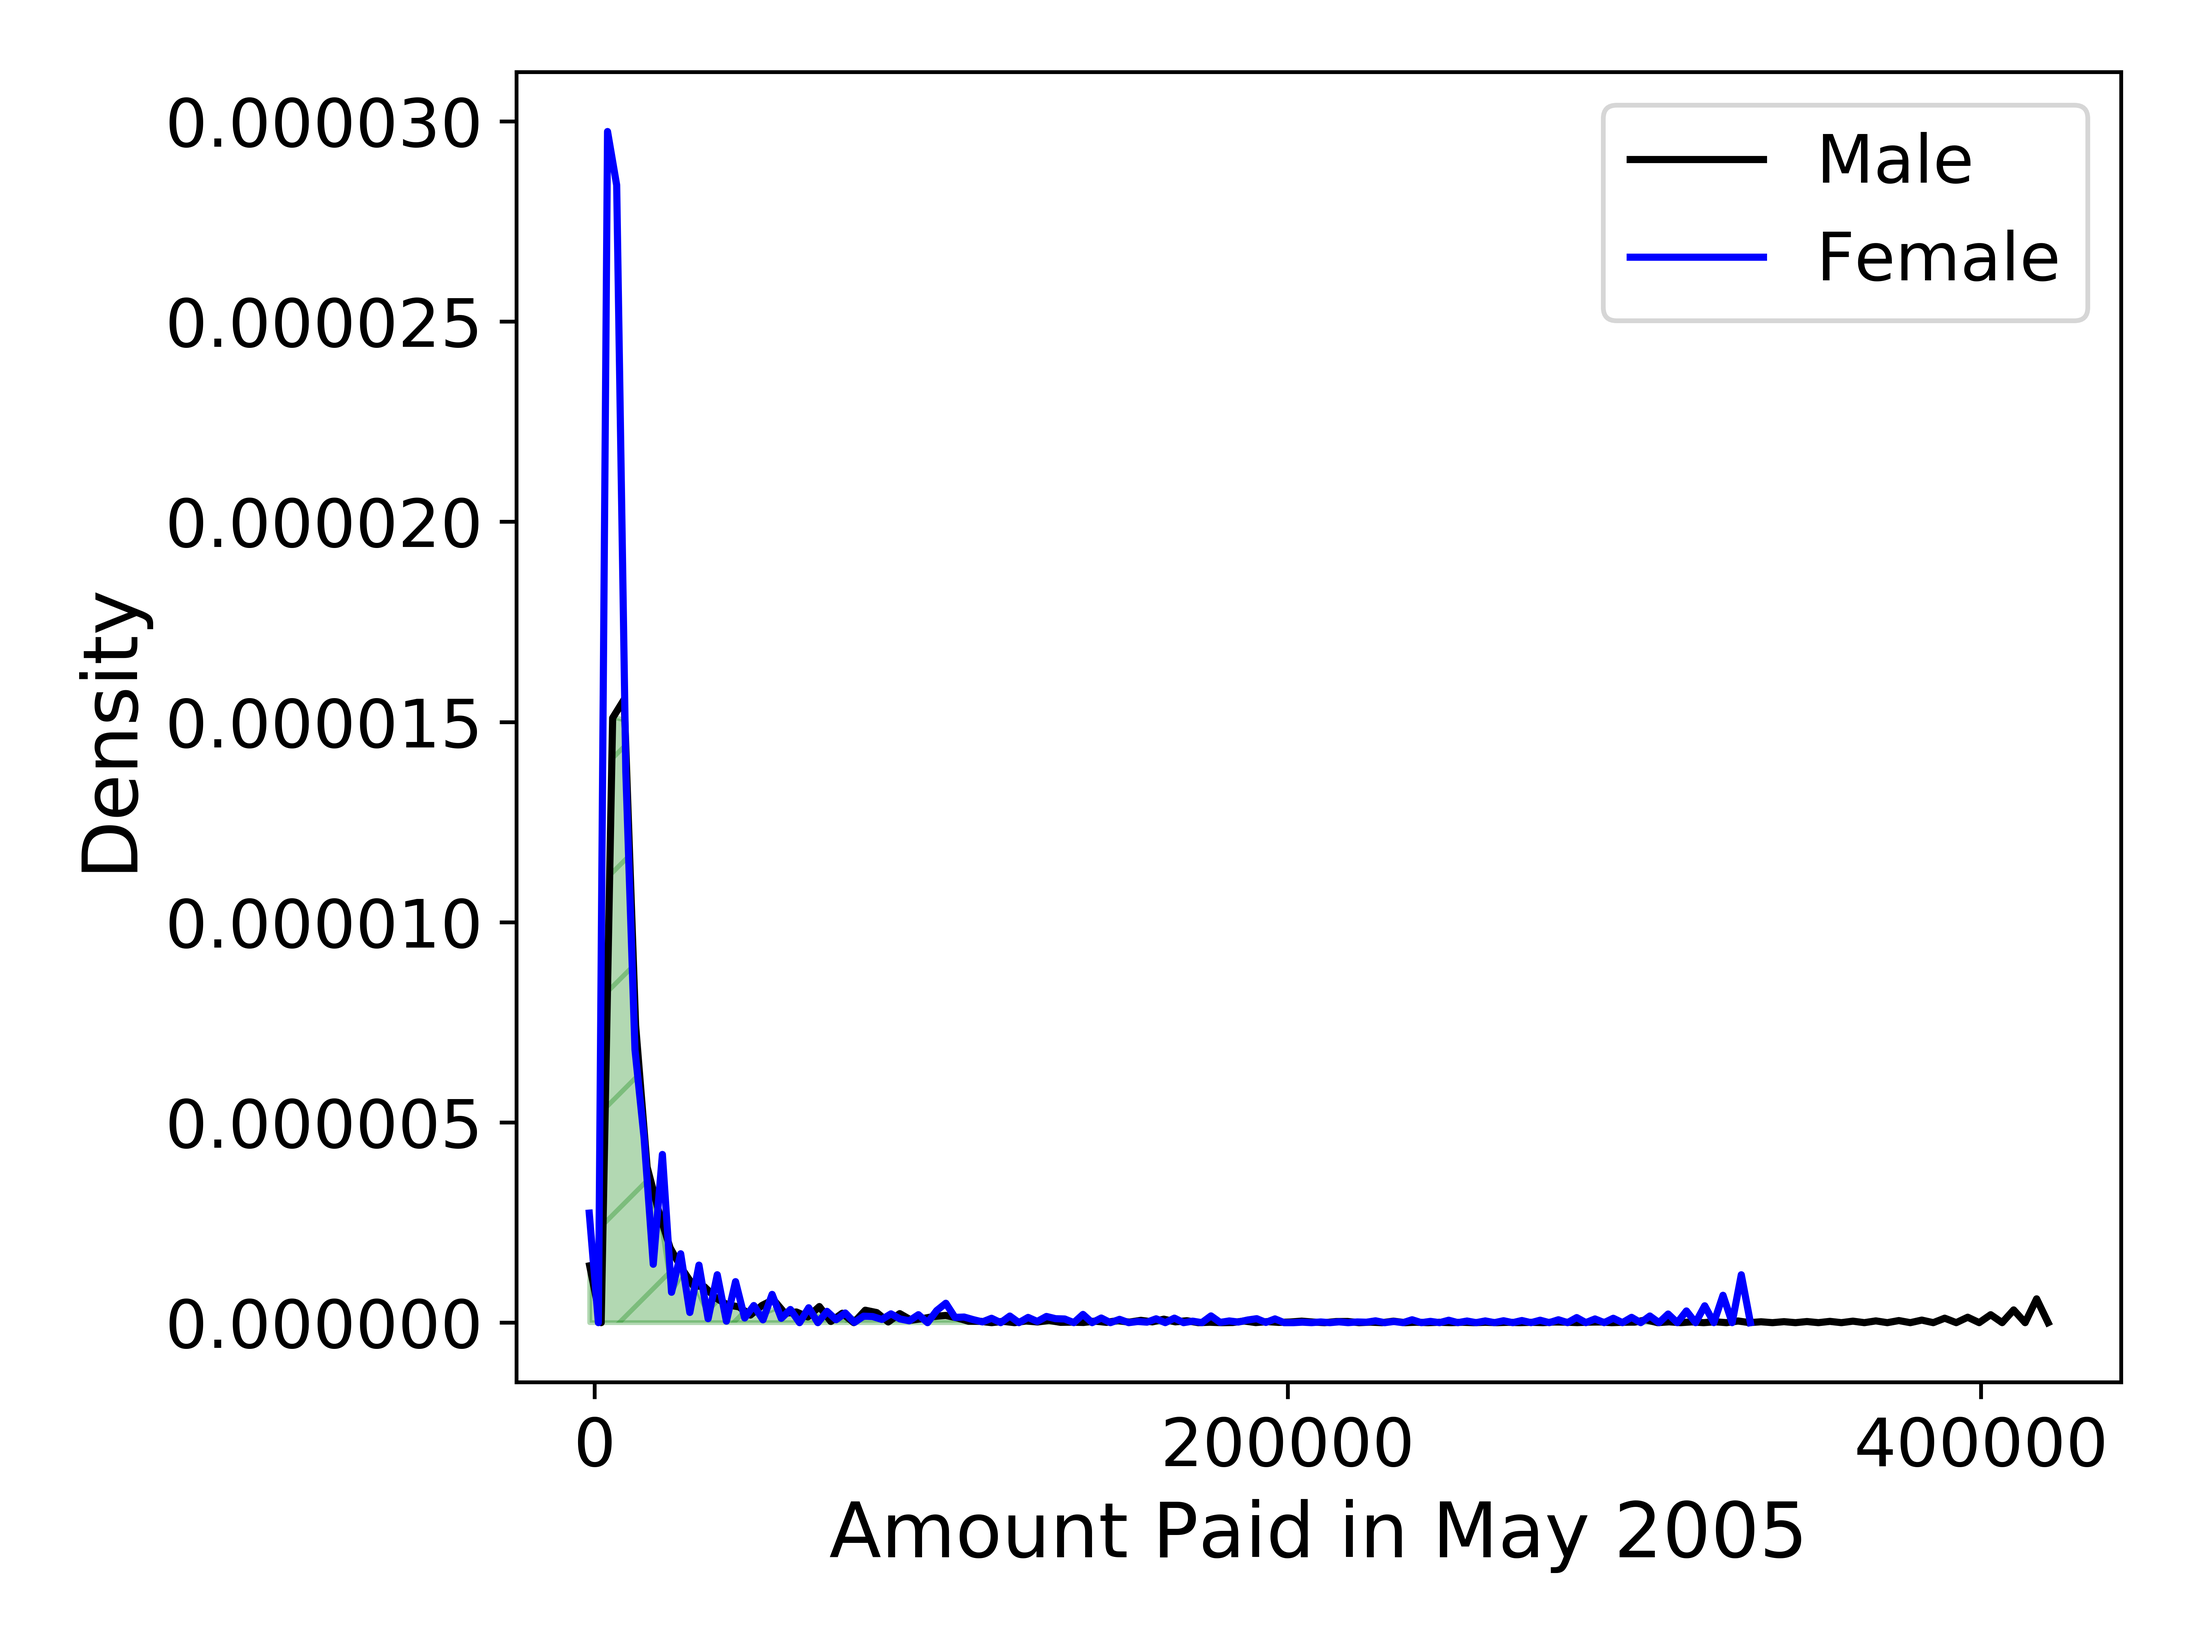
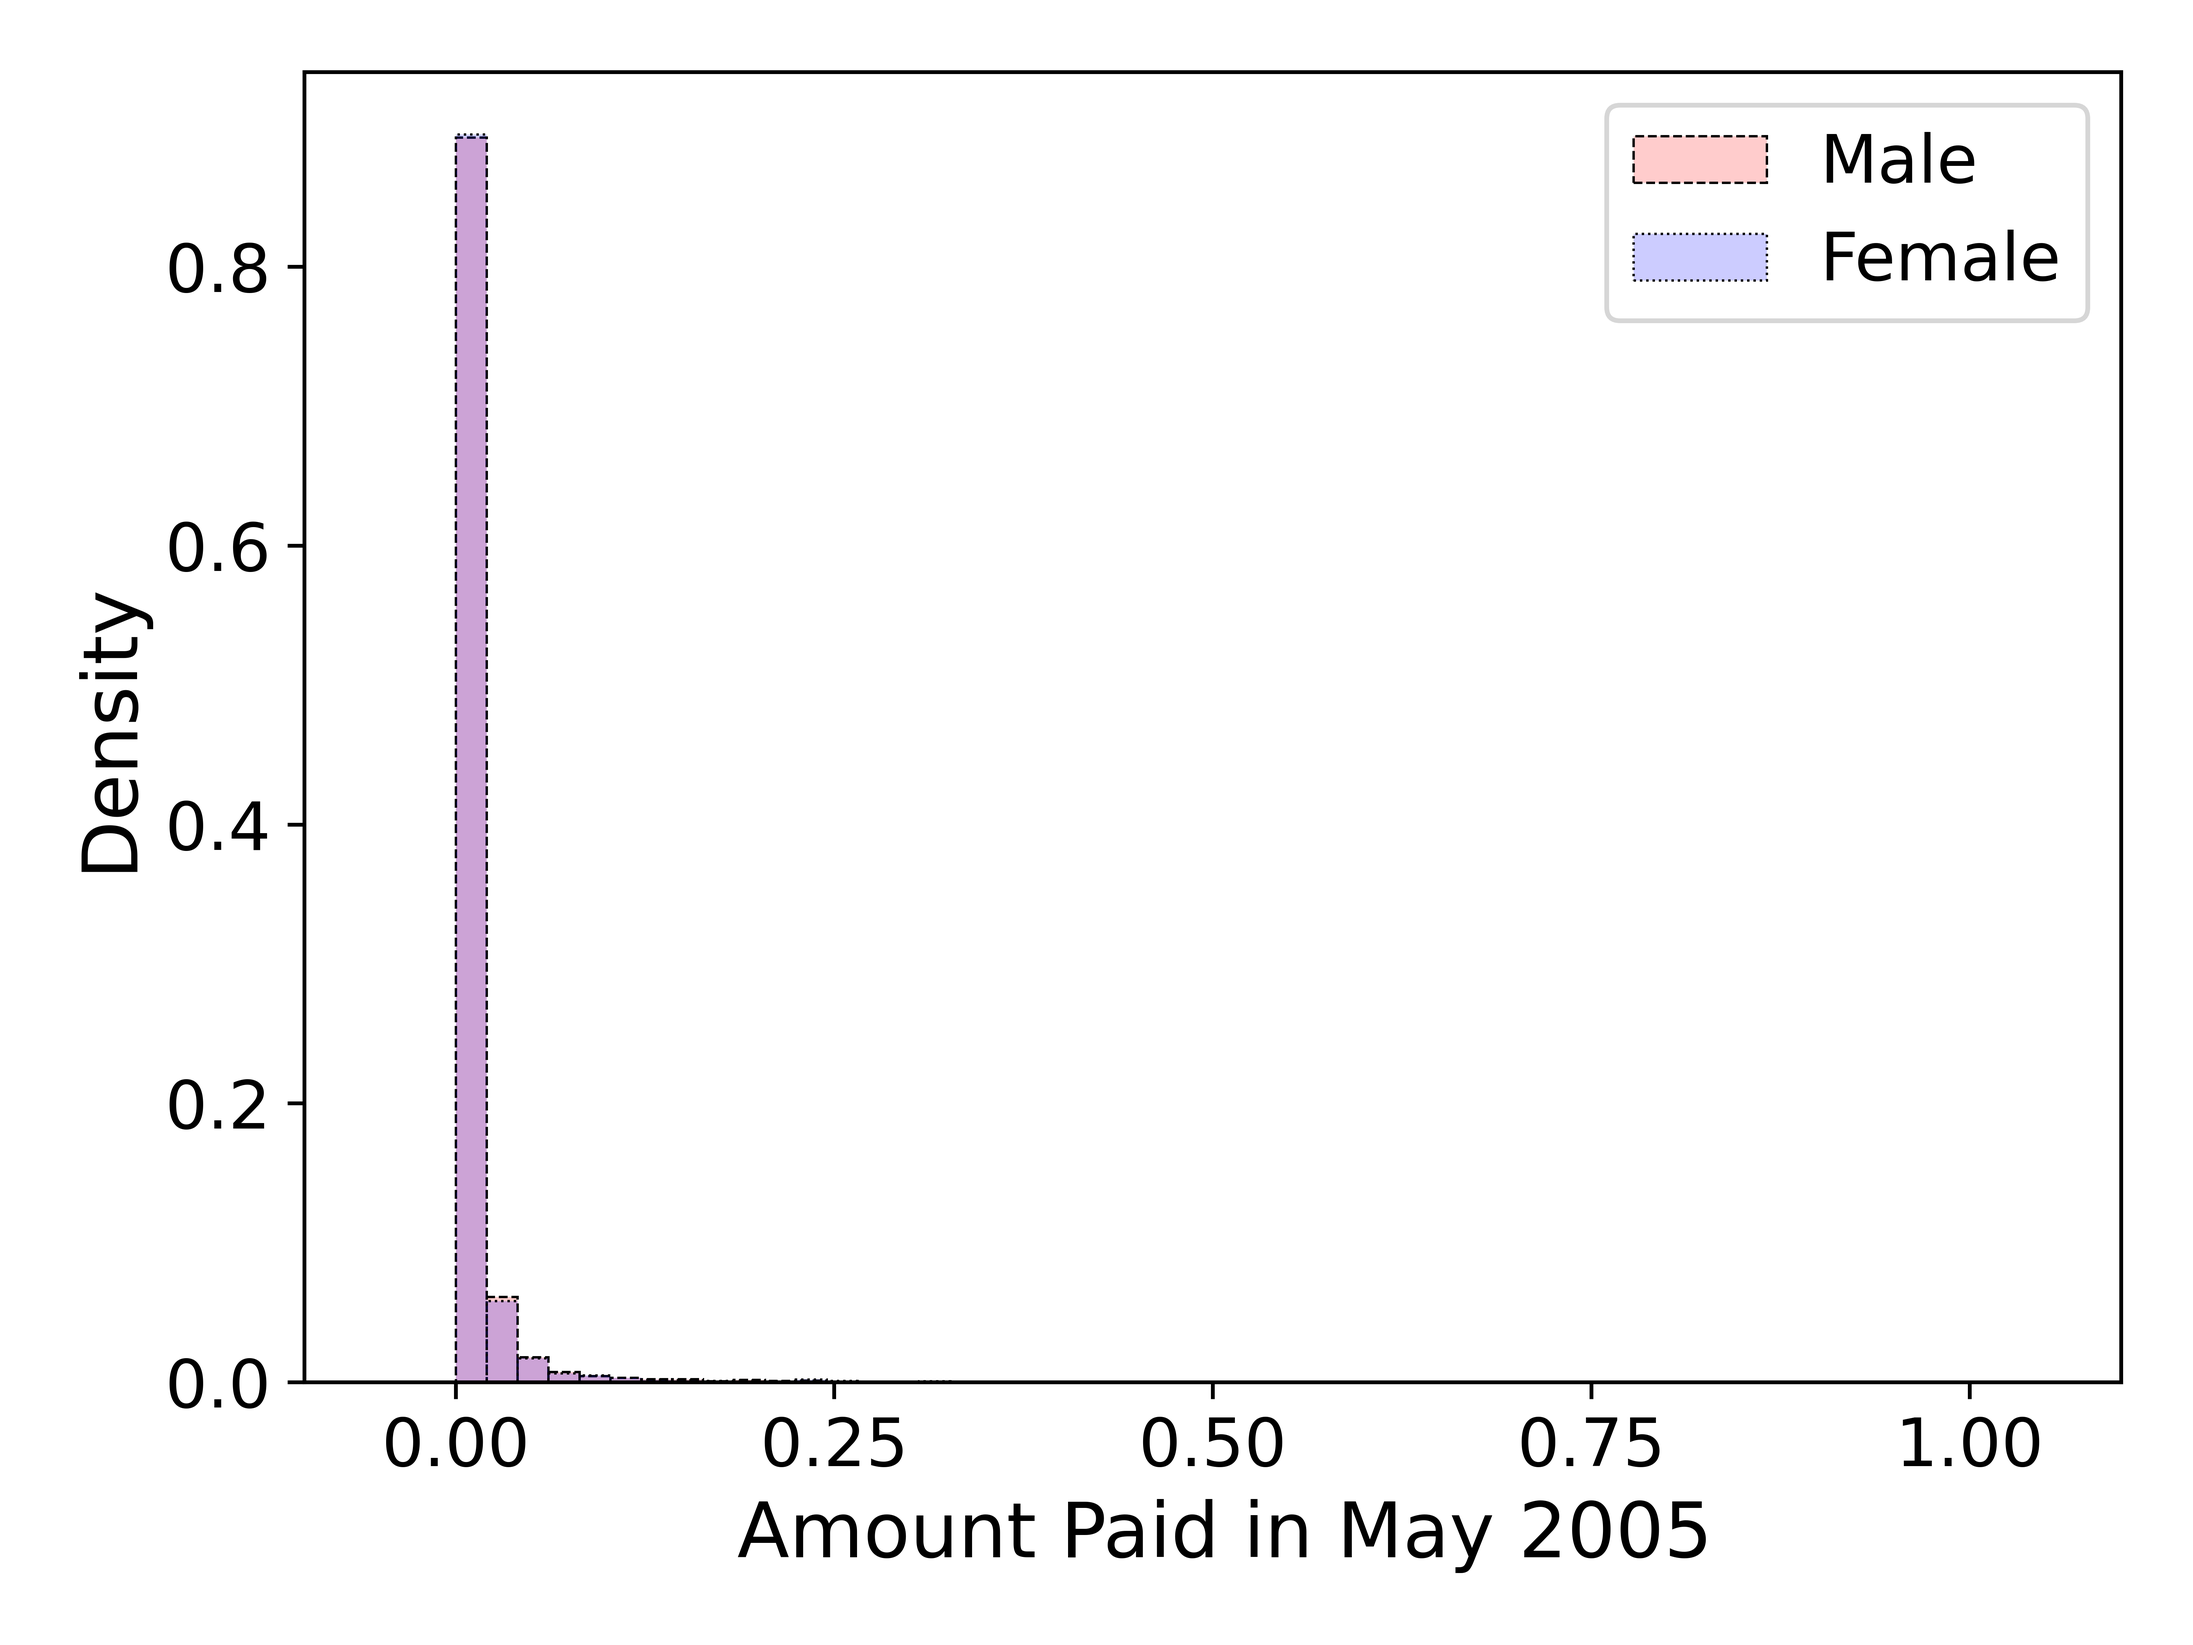
Finally fixed make_plots.py, now make_plots returns hellinger distances and the website loads them. Changed from density curves to histogram for feature visualization.

diff --git a/static/actions.js b/static/actions.js
@@ -14,7 +14,7 @@ var table = new Tabulator("#dataVisualizationTable", {
         },
         { title: "Feature ID", field: "feat_id", visible: false},
         { title: "Feature Name", field: "featname", sorter: "string" },
-        { title: "Similarity", field: "metric", sorter: "number" },
+        { title: "Distance", field: "metric", sorter: "number" },
         {
             title: "Distribution",
             field: "dist",

diff --git a/utilities/make_plots.py b/utilities/make_plots.py
@@ -1,17 +1,30 @@
 import numpy as np
+import math
 from matplotlib import rcParams
 import matplotlib.pyplot as plt
 import matplotlib.patches as mpatches
 import seaborn as sns
+from sklearn.preprocessing import MinMaxScaler
 
 rcParams.update({'figure.autolayout': True})
 
+def hellinger(p, q):
+    # From https://nbviewer.jupyter.org/gist/Teagum/460a508cda99f9874e4ff828e1896862
+
+    return math.sqrt(sum([ (math.sqrt(p_i) - math.sqrt(q_i))**2 for p_i, q_i in zip(p, q) ]) / 2)
+
+
 # This expects a dataset without the label
+# Returns Hellinger Distance array
 def make_plots(sample, datasetName, feat_descs, sens_idx, p_value, u_value, p_label, u_label):
     # Protected indices
     p_idxs = np.where(sample[:,sens_idx] == p_value)[0]
     # Unprotected indices
     u_idxs = np.where(sample[:,sens_idx] == u_value)[0]
+
+    # Collector array for the Hellinger distances
+    hds = []
+    scaler = MinMaxScaler()
 
     SMALL_SIZE = 14
     MEDIUM_SIZE = 24 # Title
@@ -24,38 +37,65 @@ def make_plots(sample, datasetName, feat_descs, sens_idx, p_value, u_value, p_la
     plt.rc('ytick', labelsize=SMALL_SIZE)    # fontsize of the tick labels
     plt.rc('legend', fontsize=SMALL_SIZE)    # legend fontsize
 
-    for i in range(sample.shape[1]):
+    for i in np.arange(sample.shape[1] - 1):
+        scaled_samp = scaler.fit_transform(sample[:,i].reshape(-1,1))
         feat_desc = feat_descs[i]
-        ax = sns.distplot(sample[:,i][u_idxs], hist=False, color='black', label=u_label)
-        ax = sns.distplot(sample[:,i][p_idxs], hist=False, color='b', label=p_label)
+        # Density overlap plot. Commented out in preference for histograms
+        # ax = sns.distplot(scaled_samp[u_idxs], hist=False, color='black', label=u_label)
+        # ax = sns.distplot(scaled_samp[p_idxs], hist=False, color='b', label=p_label)
 
-        l1 = ax.lines[0]
-        l2 = ax.lines[1]
+        # l1 = ax.lines[0]
+        # l2 = ax.lines[1]
 
-        x1 = l1.get_xydata()[:,0]
-        y1 = l1.get_xydata()[:,1]
-        x2 = l2.get_xydata()[:,0]
-        y2 = l2.get_xydata()[:,1]
+        # x1 = l1.get_xydata()[:,0]
+        # y1 = l1.get_xydata()[:,1]
+        # x2 = l2.get_xydata()[:,0]
+        # y2 = l2.get_xydata()[:,1]
 
+        # if x1 != [] and y1 != [] and x2 != [] and y2 != []:
+        #     xmin = max(x1.min(), x2.min())
+        #     xmax = min(x1.max(), x2.max())
+        #     x = np.linspace(xmin, xmax, 100)
+        #     y1 = np.interp(x, x1, y1)
+        #     y2 = np.interp(x, x2, y2)
+        #     y = np.minimum(y1, y2)
 
-        xmin = max(x1.min(), x2.min())
-        xmax = min(x1.max(), x2.max())
-        x = np.linspace(xmin, xmax, 100)
-        y1 = np.interp(x, x1, y1)
-        y2 = np.interp(x, x2, y2)
-        y = np.minimum(y1, y2)
+        #     # Fill the gap in the distributions' overlap
+        #     ax.fill_between(x, y, color="green", alpha=0.3, hatch='/')
+        fig, ax = plt.subplots()
 
-        # Fill the gap in the distributions' overlap
-        ax.fill_between(x, y, color="green", alpha=0.3, hatch='/')
+        u_counts, bins = np.histogram(scaled_samp[u_idxs], np.linspace(0,1,50))
+        p_counts, _ = np.histogram(scaled_samp[p_idxs], np.linspace(0,1,50))
+
+        if i == 1:
+            print(u_counts)
+            print(p_counts)
+
+        u = u_counts / len(scaled_samp[u_idxs])
+        p = p_counts / len(scaled_samp[p_idxs])
+
+        ax.hist(bins[:-1], bins, weights=u, label=u_label, edgecolor='black', ls='dashed', lw=0.5, fc=(1,0,0,0.2))
+        ax.hist(bins[:-1], bins, weights=p, label=p_label, edgecolor='black', ls='dotted', lw=0.5, fc=(0,0,1,0.2))
+
+        hds.append(hellinger(u,p))
 
         plt.title("")
         plt.xlabel(feat_desc, fontsize=SMALL_SIZE+2)
         plt.ylabel('Density', fontsize=SMALL_SIZE+2)
         plt.xticks(fontsize=SMALL_SIZE)
         plt.yticks(fontsize=SMALL_SIZE)
+        plt.xlim(-0.1, 1.1)
 
-        plt.legend(handles=[l1, l2])
+        plt.legend([u_label, p_label])
 
         plt.savefig('static/' + str(datasetName) +  '/' + str(datasetName) + str(i) + '.png', figsize=(19.2, 10.8), dpi=1000)
         ax.clear()
         plt.clf()
+        ax = None
+        
+    return hds
+
+# sample = np.loadtxt('../datasets/creditcarddefault.csv', delimiter=',')
+# make_plots(sample, 'creditdefault', 'Amount of credit given, Gender, Education, Marital Status, Age, September 2005 Repayment status, August 2005 Repayment status, July 2005 Repayment status, June 2005 Repayment status, May 2005 Repayment status, April 2005 Repayment status, September 2005 Bill amount, August 2005 Bill amount, July 2005 Bill amount, June 2005 Bill amount, May 2005 Bill amount, April 2005 Bill amount, Amount Paid in September 2005, Amount Paid in August 2005, Amount Paid in July 2005, Amount Paid in June 2005, Amount Paid in May 2005, Amount Paid in April 2005'.split(','), 
+#             1, 1, 2, 'Female', 'Male'
+#         )

diff --git a/app.py b/app.py
@@ -49,11 +49,13 @@ def dataSelect():
     dataShortName = request.args.get("shortdataname")
 
     feats_sql = f"""
-        SELECT dataset_featnames FROM datasets
+        SELECT dataset_featnames, dataset_hdist FROM datasets
         WHERE dataset_shortname = '{dataShortName}';
     """
 
-    feats = connect(feats_sql)[0][0]
+    query = connect(feats_sql)[0]
+    feats = query[0]
+    hdists = query[1]
     # sens = connect(data_info_sql)[0][1]
     feat_names = [x.strip() for x in feats.split(",")]
     # sens_names = [x.strip() for x in sens.split(",")]
@@ -75,7 +77,7 @@ def dataSelect():
             {
                 "feat_id": i,
                 "featname": feat_names[i],
-                "metric": np.random.rand(1)[0],
+                "metric": hdists[i],
                 "dist": str(dataShortName) + "/" + str(dataShortName) + str(i),
             }
         )
